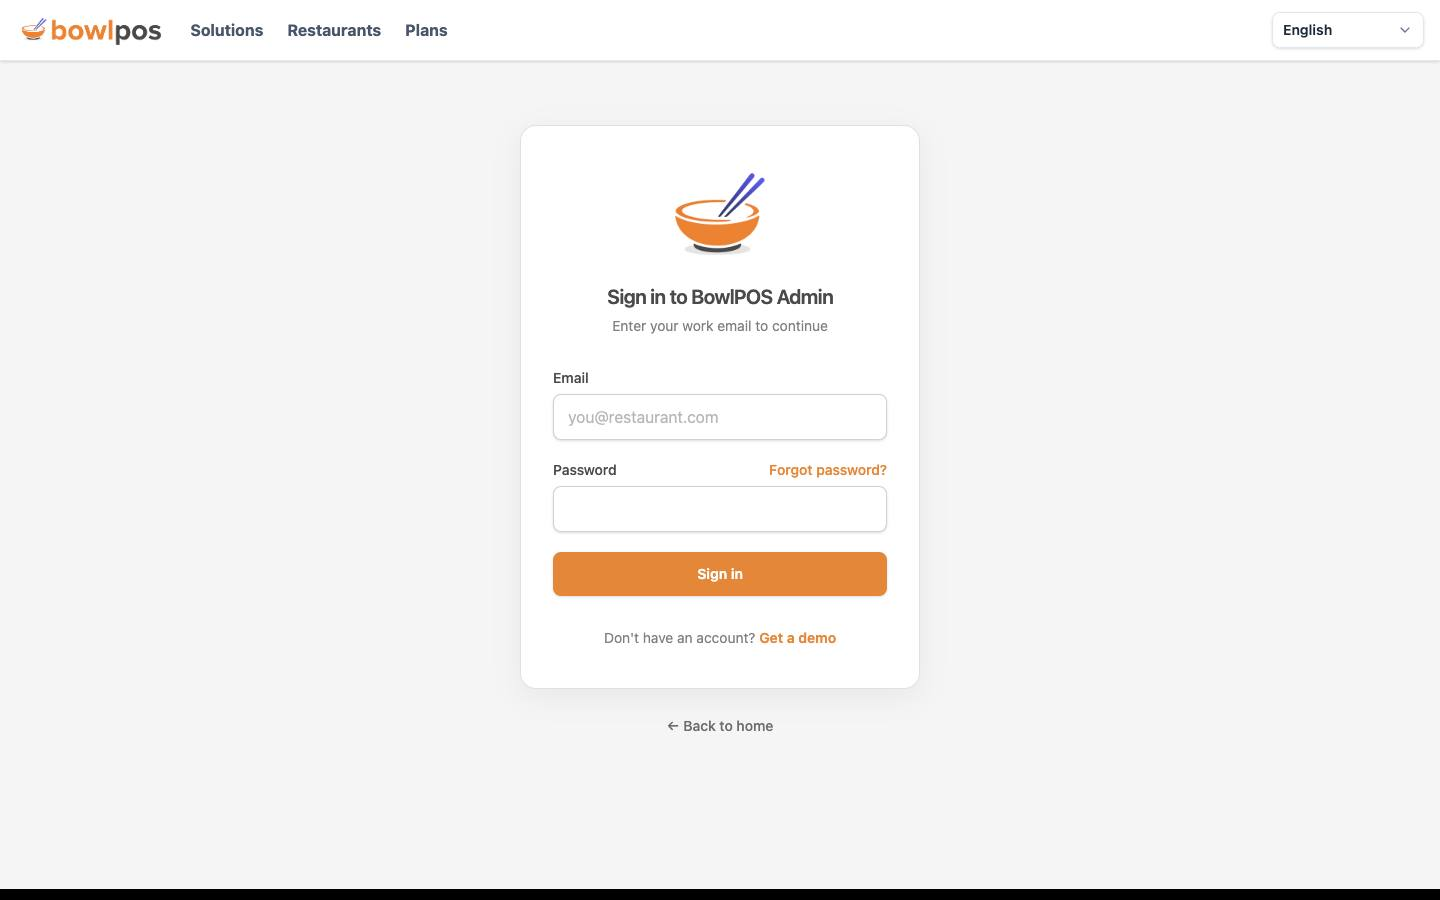
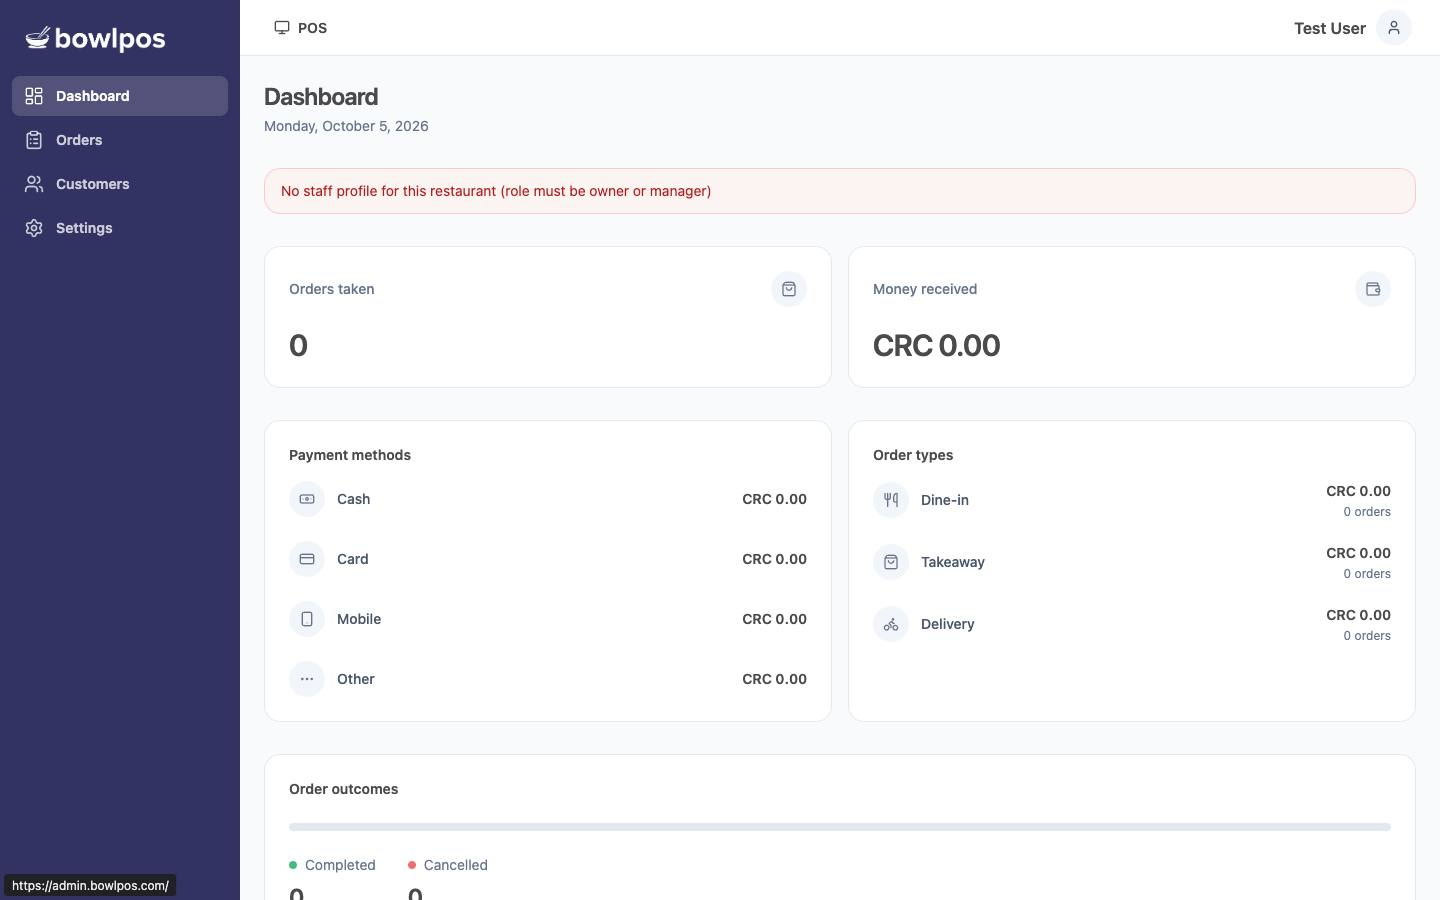
Replace the sign-in shots with the staff home and the admin dashboard.

diff --git a/README.md b/README.md
@@ -10,11 +10,11 @@ Source stays private. Demo on request.
 
 | Staff POS | Owner admin |
 |---|---|
-| ![Sign in to the staff POS](docs/media/pos.jpg) | ![Sign in to the owner admin](docs/media/admin.jpg) |
+| ![Staff home: dine-in, takeout, delivery, phone, kitchen](docs/media/pos.jpg) | ![Admin dashboard for the day: orders, payments, order types](docs/media/admin.jpg) |
+
+The staff home is the Test Restaurant account. The kitchen queue was empty when this was taken. The admin dashboard is the same account, which is a staff role, so the page says a staff profile is not an owner or manager. The numbers are zeros because that restaurant had no orders that day.
 
 ![Marketing site](docs/media/marketing.jpg)
-
-The signed-in floor and the live dashboard are not shown here. Those screens hold restaurant tickets.
 
 ## What it does
 
